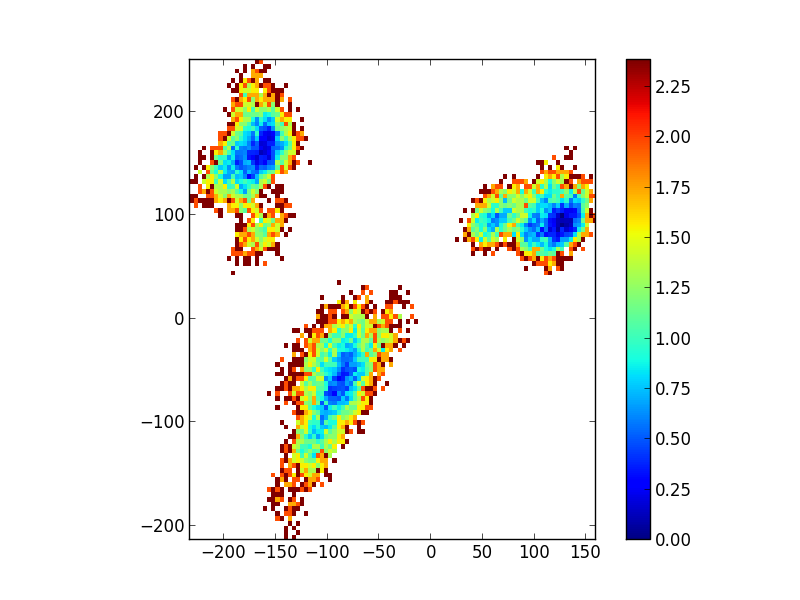
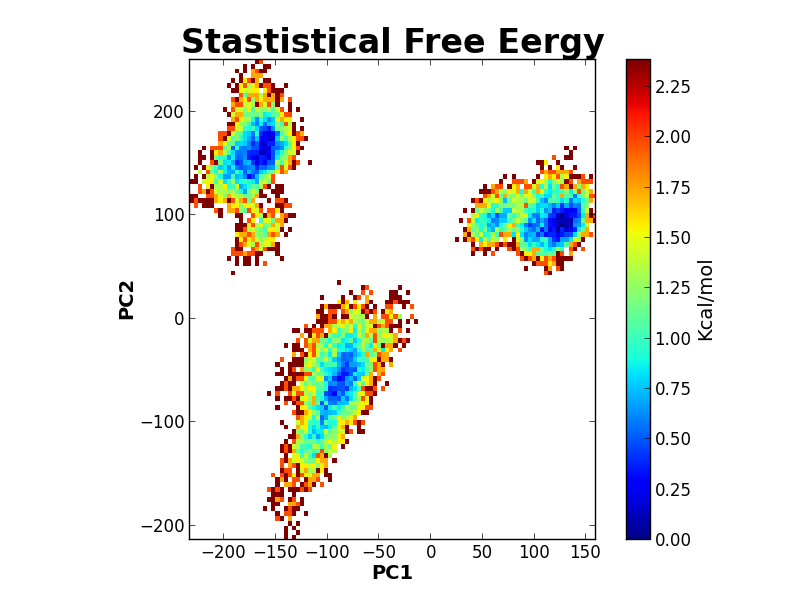
Add files via upload

diff --git a/Python/statistical-free-energy.py b/Python/statistical-free-energy.py
@@ -37,11 +37,18 @@ target.write(str(xedges[::1]))
 target.write(str(yedges[::1]))
 target.close()
 
+
 # here K = 0.0019872041is boltzmann constant in Kcal/mol
 # T is temperature in 298 Kelvin
 H1=-0.0019872041*298*np.log(H/np.amax(H))
+plt.title('Stastistical Free Eergy', fontsize=24, fontweight='bold')
+plt.xlabel('PC1',fontsize=14, fontweight='bold')
+plt.ylabel('PC2',fontsize=14, fontweight='bold')
 plt.imshow(H1, interpolation='nearest', origin='low',
                 extent=[xedges[0], xedges[-1], yedges[0], yedges[-1]])
 #plt.show()
-plt.colorbar()
+#cbar=plt.colorbar()
+cbar = plt.colorbar()
+#cbar.ax.set_yticklabels(['0','1','2','>3'])
+cbar.set_label('Kcal/mol', rotation=90,fontsize=14)
 plt.savefig('C:/Users/blakhani/Desktop/PC1-PC2.png',format='png')
